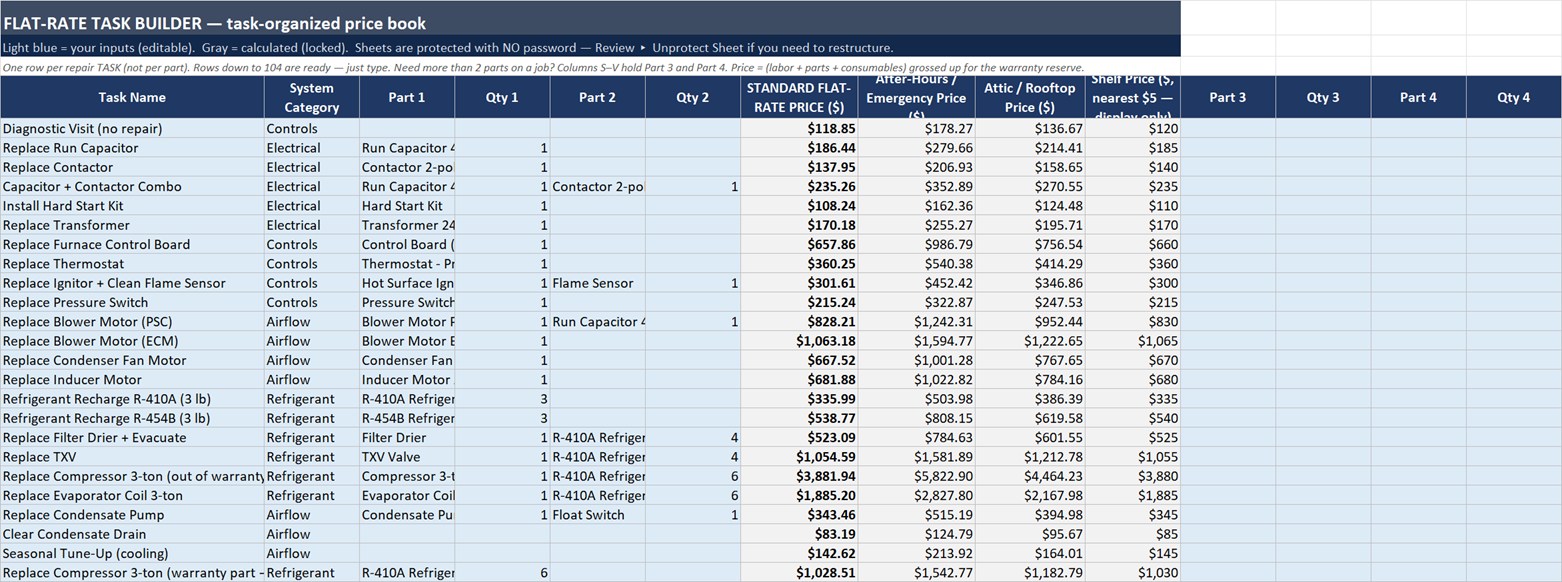
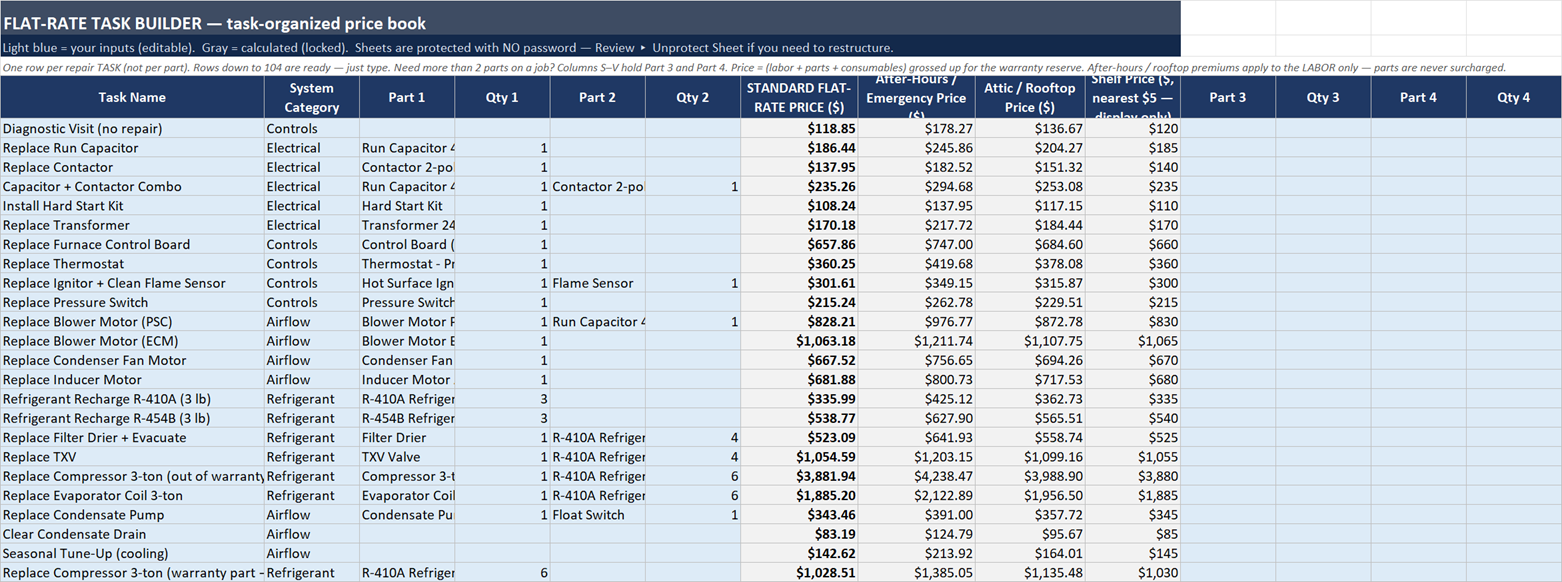
HVAC: after-hours/rooftop premium on labor only; realistic $225 baseline in the two-invoice proof
Claude-Session: https://claude.ai/code/session_018kZ4hFBbJqkTf9M5ow4NNE

diff --git a/index.html b/index.html
@@ -303,28 +303,27 @@
     <div class="proof" aria-label="Same job, two invoices &mdash; from the HVAC engine">
       <div class="proof-cols">
         <div class="inv">
-          <div class="proof-lbl">The invoice most shops write</div>
+          <div class="proof-lbl">What most shops quote</div>
           <div class="inv-sub">Saturday 3:30 PM &middot; capacitor swap</div>
-          <div class="inv-row"><span>Service call &mdash; 1 hr @ $115</span><b>$115.00</b></div>
-          <div class="inv-row"><span>Run capacitor</span><b>$40.00</b></div>
-          <div class="inv-row gone"><span>Wire nuts, tape, torch gas</span><b>$0.00</b></div>
-          <div class="inv-row gone"><span>Callback fund</span><b>$0.00</b></div>
-          <div class="inv-row gone"><span>Saturday afternoon</span><b>$0.00</b></div>
-          <div class="inv-row tot"><span>Total</span><b>$155.00</b></div>
-          <div class="inv-foot">$115 because the guy down the road charges $115. Saturday cost the tech his afternoon; it cost the customer nothing.</div>
+          <div class="inv-row"><span>Saturday service call, capacitor</span><b>$225.00</b></div>
+          <div class="inv-row gone"><span>Consumables</span><b>&mdash;</b></div>
+          <div class="inv-row gone"><span>Callback reserve</span><b>&mdash;</b></div>
+          <div class="inv-row gone"><span>Saturday labor premium</span><b>&mdash;</b></div>
+          <div class="inv-row tot"><span>Total</span><b>$225.00</b></div>
+          <div class="inv-foot">A round number from experience. Fair to the customer. Nothing behind it &mdash; it works most of the time and leaves a little every time.</div>
         </div>
         <div class="inv eng">
           <div class="proof-lbl">The same job, priced by the engine</div>
-          <div class="inv-sub">After-hours = Y. The customer sees one line: $279.66. This breakdown is yours.</div>
+          <div class="inv-sub">After-hours = Y. The customer sees one line: $245.86. The breakdown is yours.</div>
           <div class="inv-row"><span>Labor 1.0 hr @ $114.09 loaded rate</span><b>$114.09</b></div>
           <div class="inv-row hi"><span>Capacitor $18 landed &times; 3.5 <em>your markup tier</em></span><b>$63.00</b></div>
           <div class="inv-row hi"><span>Consumables 3% <em>wire nuts, tape, torch gas</em></span><b>$1.89</b></div>
           <div class="inv-row hi"><span>Warranty reserve 4% <em>the callback fund, up front</em></span><b>$7.46</b></div>
-          <div class="inv-row hi"><span>After-hours +50% <em>Saturday &mdash; on the whole job</em></span><b>$93.22</b></div>
-          <div class="inv-row tot"><span>Total</span><b>$279.66</b></div>
+          <div class="inv-row hi"><span>After-hours +50% <em>on the labor only &mdash; parts are never surcharged</em></span><b>$59.42</b></div>
+          <div class="inv-row tot"><span>Total</span><b>$245.86</b></div>
         </div>
       </div>
-      <div class="proof-note"><b class="callout">$124.66 short. One job.</b> I'm not creating money for you. I'm squeezing out the profit that was already in the job. Cents become dollars. Dollars become a business that's still here next year. Every number above is a dial you set once, in a blue cell.</div>
+      <div class="proof-note"><b class="callout">+$20.86 on one job. 9%, every job.</b> I'm not creating money for you. I'm squeezing out the profit that was already in the job. Cents become dollars. Dollars become a business that's still here next year. Every number above is a dial you set once, in a blue cell.</div>
     </div>
 
     
@@ -358,9 +357,9 @@
         <summary><div class="card-target">Heating &amp; Air — 1–2 Truck Shops</div><h3 class="card-title">HVAC Quoting Engine</h3><span class="sump">$75</span></summary>
         <div class="lw">
           <div class="lw-cell loss"><span class="lw-tag">Guessing by gut</span><div class="lw-big">under $114.09/hr</div><small>your true cost to roll a truck &mdash; bill less and you're paying to work</small></div>
-          <div class="lw-cell win"><span class="lw-tag">Engine says</span><div class="lw-big">$186.44 flat</div><small>capacitor swap, consumables + callback fund built in &mdash; 9pm Sunday on a roof: $307.63, automatic</small></div>
+          <div class="lw-cell win"><span class="lw-tag">Engine says</span><div class="lw-big">$186.44 flat</div><small>capacitor swap, consumables + callback fund built in &mdash; 9pm Sunday on a roof: $263.69, automatic</small></div>
         </div>
-        <button class="gal-one" onclick="lbOpen('hvac',0)"><img loading="lazy" src="covers/hvac/01.jpg?v=7" alt="HVAC engine walkthrough — the whole system in five lines"><span class="gal-one-cta">&#9654; See it in action &mdash; 10-slide walkthrough</span></button>
+        <button class="gal-one" onclick="lbOpen('hvac',0)"><img loading="lazy" src="covers/hvac/01.jpg?v=8" alt="HVAC engine walkthrough — the whole system in five lines"><span class="gal-one-cta">&#9654; See it in action &mdash; 10-slide walkthrough</span></button>
         <div class="card-footer">
           <div class="price-tag">$75 <small>one-time</small></div>
           <a class="btn-download" href="https://fireyoursaas.gumroad.com/l/hvac">Get the HVAC Engine &mdash; $75 &rarr;</a>
@@ -552,9 +551,9 @@
   <div class="lb-bar"><button onclick="lbNav(-1)">‹ Prev</button><button id="lbZoomB" onclick="lbZoom(0.5,0.6)">&#128269; Magnify</button><button onclick="lbNav(1)">Next ›</button></div>
 </div>
 <script>
-var GALS={crafters:[{f:"01.jpg",c:"5 steps, 30 minutes, then it prices everything"},{f:"02.jpg",c:"One screen tells you if you're getting paid"},{f:"03.jpg",c:"Your hour, costed honestly"},{f:"04.jpg",c:"Buy by the box, cost by the ounce"},{f:"05.jpg",c:"Build each product from dropdowns"},{f:"06.jpg",c:"Is that booth fee worth it? Know before you pay"},{f:"07.jpg",c:"What you really cleared, per sale, per hour"}],hvac:[{f:"01.jpg",c:"Run the day, or open the engine room"},{f:"02.jpg",c:"Same job. Same Saturday. You were $124.66 short and didn't know it."},{f:"03.jpg",c:"Prime it once. 20 minutes."},{f:"04.jpg",c:"A driveway quote in under a minute"},{f:"05.jpg",c:"One screen tells you if you're making money"},{f:"06.jpg",c:"A customer-ready quote — Good / Better / Best"},{f:"07.jpg",c:"Quoted vs actual, job by job"},{f:"08.jpg",c:"Every dial in one place"},{f:"09.jpg",c:"Buy it once, mark it up right forever"},{f:"10.jpg",c:"Your whole price book — standard, 9pm Sunday, rooftop"}]};
+var GALS={crafters:[{f:"01.jpg",c:"5 steps, 30 minutes, then it prices everything"},{f:"02.jpg",c:"One screen tells you if you're getting paid"},{f:"03.jpg",c:"Your hour, costed honestly"},{f:"04.jpg",c:"Buy by the box, cost by the ounce"},{f:"05.jpg",c:"Build each product from dropdowns"},{f:"06.jpg",c:"Is that booth fee worth it? Know before you pay"},{f:"07.jpg",c:"What you really cleared, per sale, per hour"}],hvac:[{f:"01.jpg",c:"Run the day, or open the engine room"},{f:"02.jpg",c:"Same job. Same Saturday. $20.86 more, and you can show your work."},{f:"03.jpg",c:"Prime it once. 20 minutes."},{f:"04.jpg",c:"A driveway quote in under a minute"},{f:"05.jpg",c:"One screen tells you if you're making money"},{f:"06.jpg",c:"A customer-ready quote — Good / Better / Best"},{f:"07.jpg",c:"Quoted vs actual, job by job"},{f:"08.jpg",c:"Every dial in one place"},{f:"09.jpg",c:"Buy it once, mark it up right forever"},{f:"10.jpg",c:"Your whole price book — standard, 9pm Sunday, rooftop"}]};
 var lbG=null,lbI=0;
-function lbShow(){lbZoomOff();var f=GALS[lbG];document.getElementById("lbImg").src="covers/"+lbG+"/full/"+f[lbI].f.replace(".jpg",".png")+"?v=7";document.getElementById("lbCap").textContent=f[lbI].c;document.getElementById("lbN").textContent=(lbI+1)+" / "+f.length;}
+function lbShow(){lbZoomOff();var f=GALS[lbG];document.getElementById("lbImg").src="covers/"+lbG+"/full/"+f[lbI].f.replace(".jpg",".png")+"?v=8";document.getElementById("lbCap").textContent=f[lbI].c;document.getElementById("lbN").textContent=(lbI+1)+" / "+f.length;}
 function lbOpen(g,i){lbG=g;lbI=i;lbShow();document.getElementById("lb").classList.add("open");document.body.style.overflow="hidden";history.pushState({l:1},"");}
 function lbCloseUI(){lbUnzoom();document.getElementById("lb").classList.remove("open");document.body.style.overflow="";}
 function lbClose(){var d=(history.state&&history.state.l)||0;lbCloseUI();if(d===1){lbPopSkip++;history.back();}else if(d===2){lbPopSkip++;history.go(-2);}}
